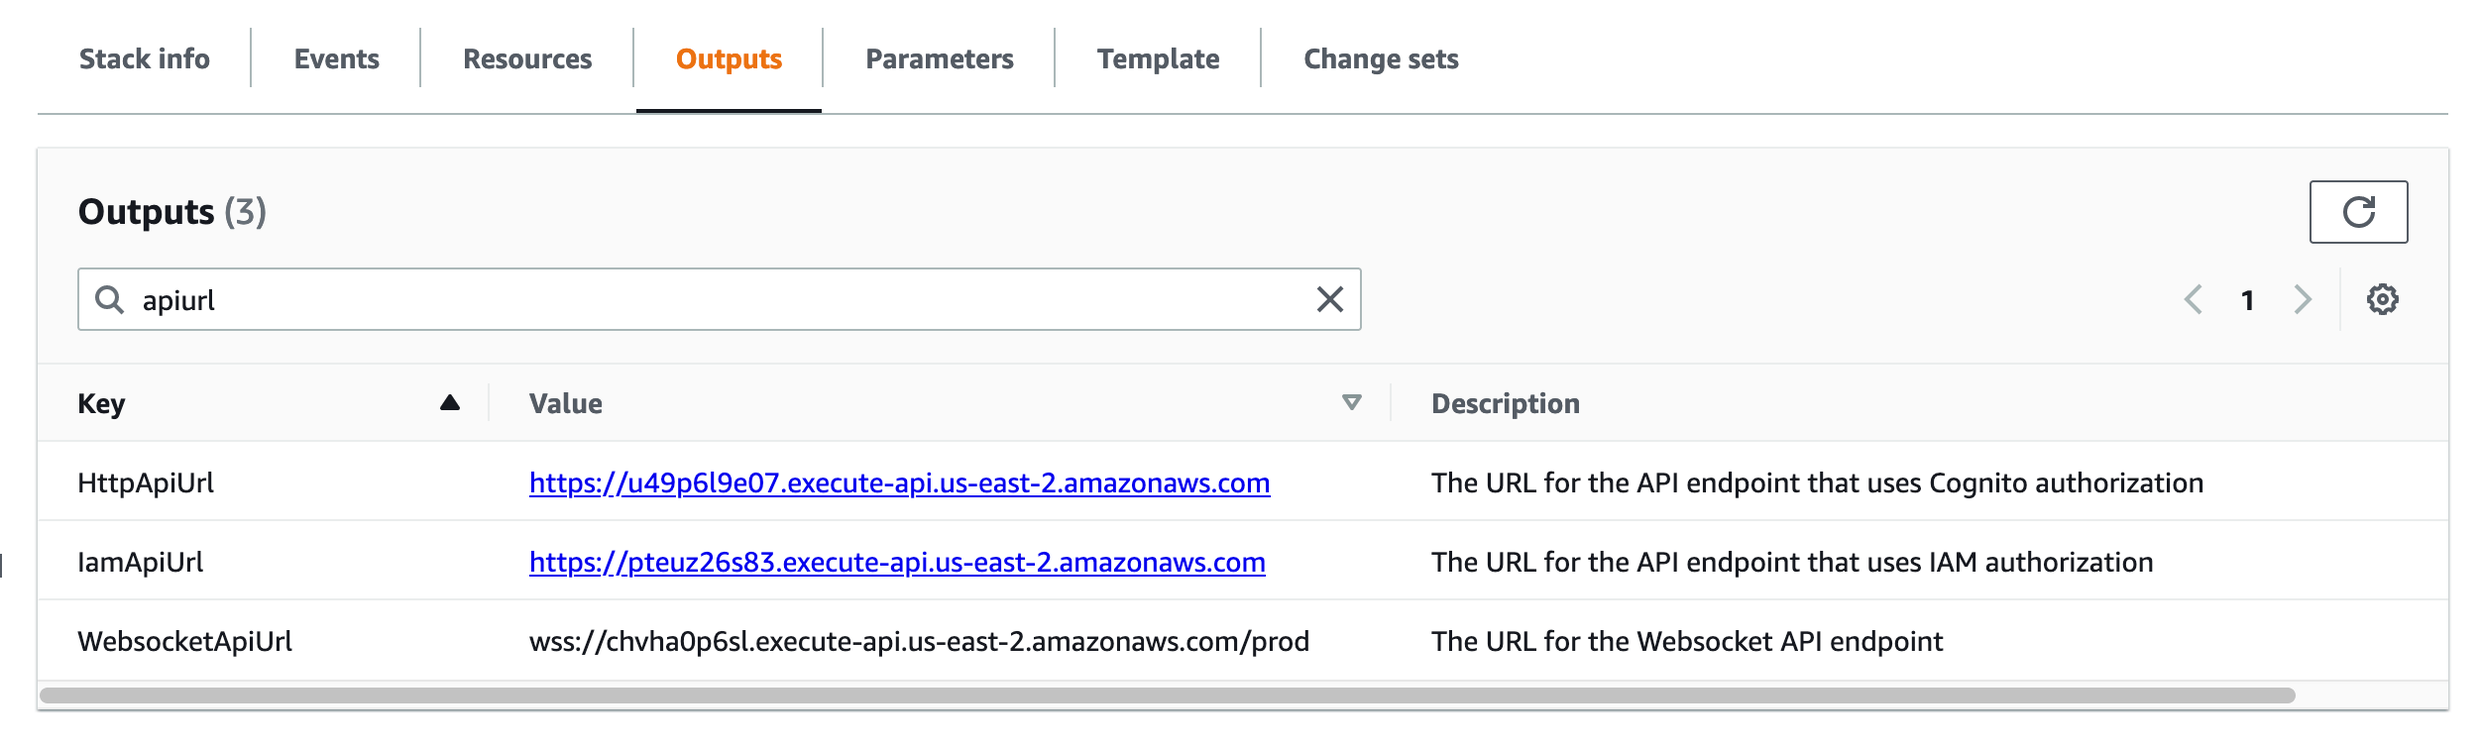
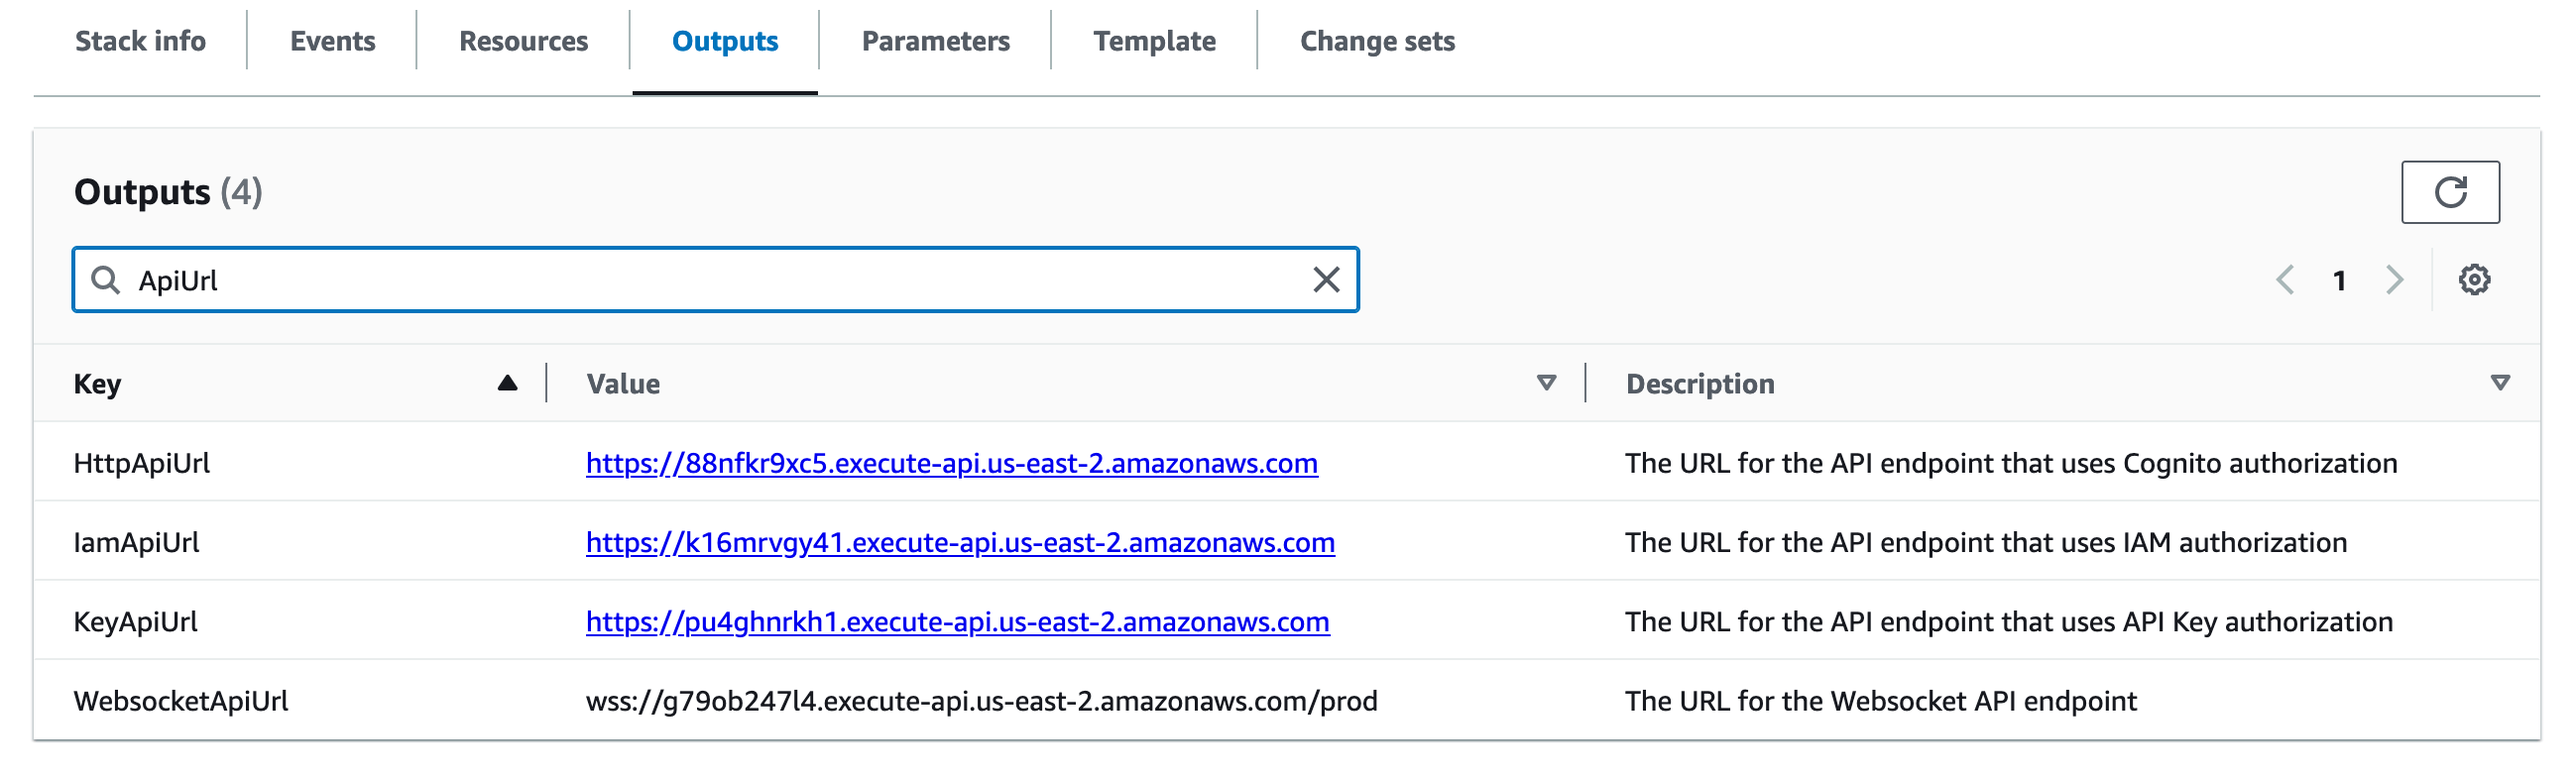
added Api Key authentication

diff --git a/diagrams/architecture/formkiq.py b/diagrams/architecture/formkiq.py
@@ -1,0 +1,82 @@
+from diagrams import Cluster, Diagram, Edge, Node
+from diagrams.gcp.analytics import BigQuery, Dataflow, PubSub
+from diagrams.gcp.compute import AppEngine, Functions
+from diagrams.gcp.database import BigTable
+from diagrams.gcp.iot import IotCore
+from diagrams.gcp.storage import GCS
+from diagrams.onprem.client import Client
+from diagrams.generic.device import Mobile
+from diagrams.onprem.client import Users
+from diagrams.aws.network import Route53
+from diagrams.aws.network import APIGateway
+from diagrams.aws.database import Dynamodb
+from diagrams.aws.storage import SimpleStorageServiceS3BucketWithObjects
+from diagrams.aws.compute import Lambda
+from diagrams.aws.compute import Fargate
+from diagrams.aws.analytics import ES
+from diagrams.custom import Custom
+from diagrams.aws.integration import SNS, SQS 
+from diagrams.aws.ml import Textract
+
+graph_attr = {
+    "layout":"dot",
+    "compound":"true",
+}
+
+with Diagram("FormKiQ", show=False, graph_attr=graph_attr):
+
+    with Cluster("API Gateway", direction="TB"):
+        api1 = APIGateway("JWT Authorization") 
+        api2 = APIGateway("IAM Authorization") 
+        api3 = APIGateway("KEY Authorization")
+
+    with Cluster("Applications"):
+        web = Client("Web")
+        mobile = Mobile("Mobile")
+        users = Users("Users")
+
+    with Cluster("Additional Actions and Modules"):
+        with Cluster("Fulltext Search"):
+            opensearch = ES("OpenSearch")
+            typesense = Custom('Typesense', './typesense.png')
+            opensearch - Edge(label="OR", style="dotted") - typesense
+
+        with Cluster("Optical Character Recognition"):
+            tesseract = Custom("Tesseract OCR","./tesseract.png")
+            textract = Textract("AWS Textract")
+            textract - Edge(label="OR", style="dotted") - tesseract
+
+        with Cluster("Intelligent Document Classification / Anti-Malware / E-Signature"):
+            openai = Custom("OpenAI","./openai.png")
+            antimalware = Custom("Anti-Malware","./anti-malware.png")
+            docusign = Custom("Docusign","./docusign.png")
+            openai - Edge(style="dashed") - antimalware - Edge(style="dashed") - docusign
+
+    with Cluster("FormKiQ"):
+
+        with Cluster("Document Storage"):
+            storage = Dynamodb("Amazon DynamoDB") 
+            s3 = SimpleStorageServiceS3BucketWithObjects("Amazon S3")
+            storage >> s3
+
+        with Cluster("Serverless Processing"):
+            processing = Lambda("AWS Lambda") 
+            processing2 = Lambda("AWS Lambda")
+            processing - Edge(style="dashed") - processing2
+
+        with Cluster("Document Events"):
+            messagingSns = SNS("Amazon SNS")
+            messagingSqs = SQS("Amazon SQS")
+            messagingSns - Edge(style="dashed") - messagingSqs
+
+    web >> Edge(ltail='cluster_Applications',lhead='cluster_API Gateway') >> api1
+    mobile >> Edge(ltail='cluster_Applications',lhead='cluster_API Gateway') >> api2
+    users >> Edge(ltail='cluster_Applications',lhead='cluster_API Gateway') >> api3
+
+    api1 >> Edge(ltail='cluster_API Gateway',lhead='cluster_FormKiQ') >> storage
+    api2 >> Edge(ltail='cluster_API Gateway',lhead='cluster_FormKiQ') >> processing
+    api3 >> Edge(ltail='cluster_API Gateway',lhead='cluster_FormKiQ') >> messagingSns
+
+    s3 >> Edge(ltail='cluster_FormKiQ',lhead='cluster_Fulltext Search') >> opensearch
+    processing2 >> Edge(ltail='cluster_FormKiQ',lhead='cluster_Optical Character Recognition') >> textract
+    messagingSqs >> Edge(ltail='cluster_FormKiQ',lhead='cluster_Additional Actions and Modules') >> openai

diff --git a/diagrams/architecture/formkiq-authentication.py b/diagrams/architecture/formkiq-authentication.py
@@ -1,0 +1,34 @@
+from diagrams import Cluster, Diagram, Edge, Node
+from diagrams.onprem.client import Client
+from diagrams.generic.device import Mobile
+from diagrams.onprem.client import Users
+from diagrams.aws.network import APIGateway
+from diagrams.aws.database import Dynamodb
+from diagrams.aws.storage import SimpleStorageServiceS3BucketWithObjects
+from diagrams.aws.compute import Lambda
+from diagrams.aws.compute import Fargate
+from diagrams.aws.analytics import ES
+from diagrams.custom import Custom
+from diagrams.aws.integration import SNS, SQS 
+from diagrams.aws.ml import Textract
+
+graph_attr = {
+    "layout":"dot",
+    "compound":"true",
+}
+
+with Diagram("FormKiQ Authentication", show=False, graph_attr=graph_attr, direction="TB"):
+
+    with Cluster("API Gateway"):
+        api1 = APIGateway("JWT Authorization") 
+        api2 = APIGateway("IAM Authorization") 
+        api3 = APIGateway("KEY Authorization")
+
+    with Cluster("Applications", direction="LR"):
+        web = Client("Web")
+        mobile = Mobile("Mobile")
+        users = Users("Users")
+
+    web >> Edge(ltail='cluster_Applications',lhead='cluster_API Gateway') >> api1
+    mobile >> Edge(ltail='cluster_Applications',lhead='cluster_API Gateway') >> api2
+    users >> Edge(ltail='cluster_Applications',lhead='cluster_API Gateway') >> api3
